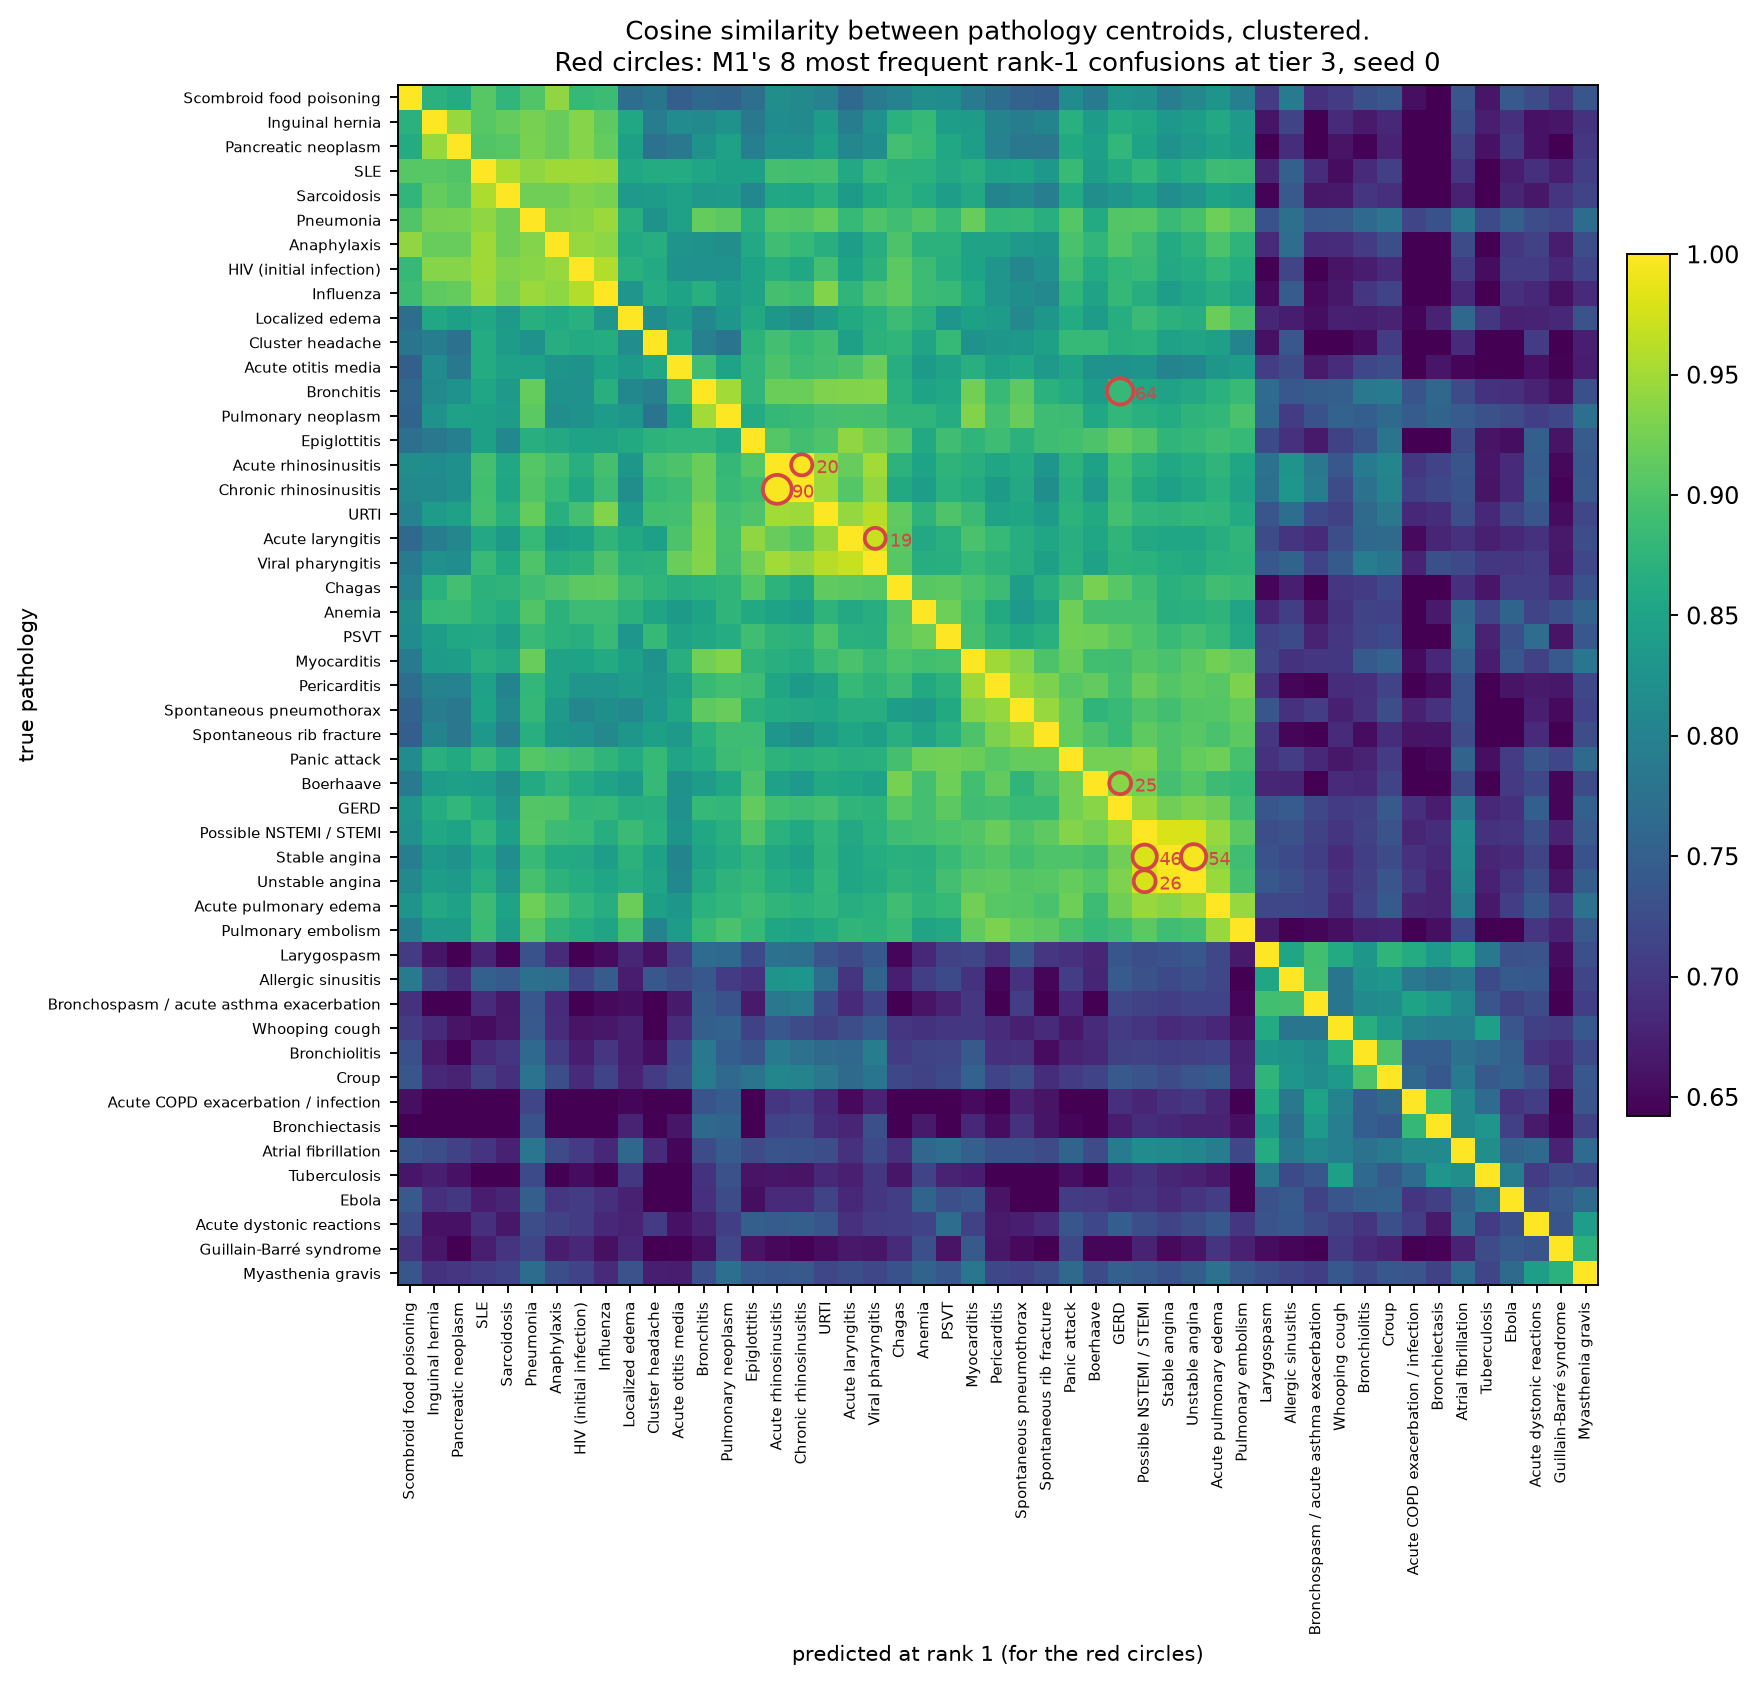
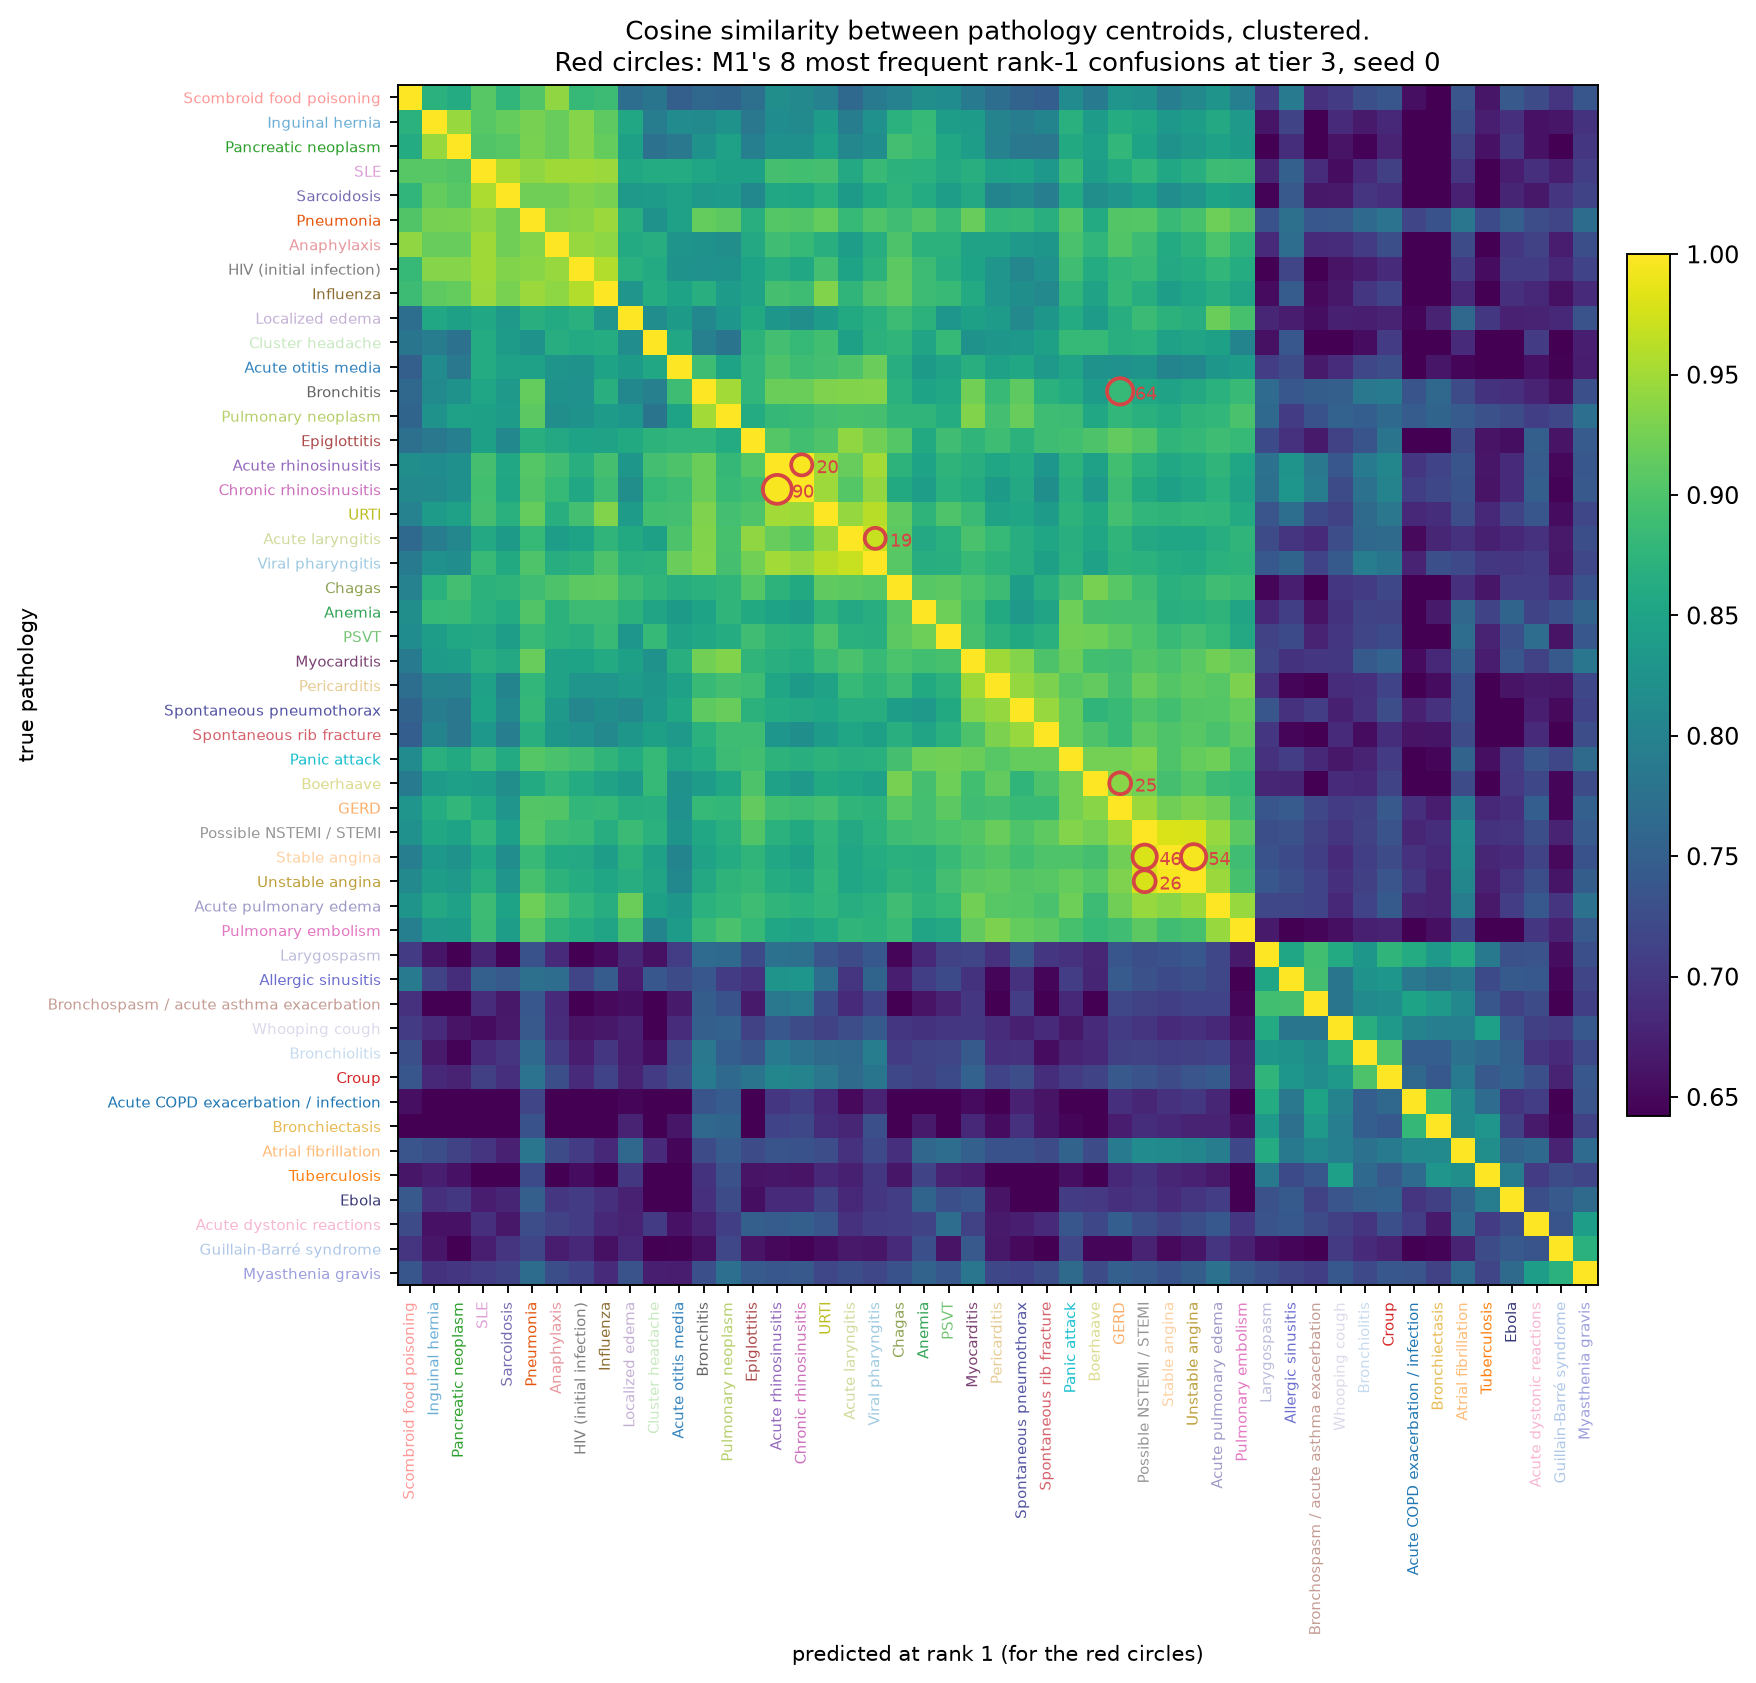
improve draft

Changed region(s): [[0.2153, 0.7724, 0.8918, 0.896], [0.123, 0.0618, 0.2153, 0.7724]]

diff --git a/src/pages/BlogPage/scripts/medive_embedding_map.py b/src/pages/BlogPage/scripts/medive_embedding_map.py
@@ -7,11 +7,12 @@ Reads the caches of the experiment repo (git-ignored there, so this script lives
     experiments/predictions/{m1_text,b1_tfidf}_s0_t3.npy   seed-0 probabilities at tier 3
 
 Run from anywhere with the experiment repo's environment:
-    uv run --with umap-learn --project ~/code/repos/medive-mvp python medive_embedding_map.py [--medive PATH] [--out DIR]
+    uv run --project ~/code/repos/medive-mvp python medive_embedding_map.py [--medive PATH] [--out DIR]
 
 Outputs, into src/assets/blog/medive/ by default:
-    fig_embedding_map.png     three panels: clean (UMAP), typos projected into the same map, and each patient's drift
-    fig_embedding_drift.png   how far vectors move and what it costs, M1 against B1
+    fig_embedding_map.png     two panels: clean notes and typo notes, one joint t-SNE map
+    fig_embedding_drift.png   each patient's displacement drawn on the map, and its distribution
+    fig_embedding_cost.png    M1 and B1 accuracy against the number of corrupted words
     embedding_stats.json      every number quoted in the post, so none is typed by hand
 """
 
@@ -19,6 +20,7 @@ from __future__ import annotations
 
 import argparse
 import json
+import sys
 from collections import Counter
 from pathlib import Path
 
@@ -54,6 +56,8 @@ def main() -> None:
     a = p.parse_args()
     root, out = Path(a.medive), Path(a.out).resolve()
     out.mkdir(parents=True, exist_ok=True)
+    sys.path.insert(0, str(root))  # experiments/ is a package at the repo root, not under src/
+    from experiments.viz import pathology_colours  # one fixed colour per pathology, shared with the essay figures
 
     # ---- load -------------------------------------------------------------------------------------------------------
     x0 = np.load(root / "data/processed/embeddings/sapbert/test/tier0.npy")
@@ -149,82 +153,69 @@ def main() -> None:
     # ---- the map ---------------------------------------------------------------------------------------------------
     rng = np.random.default_rng(SEED)
     idx = np.sort(rng.choice(n, size=N_MAP, replace=False))
-    # UMAP is fitted on the clean notes only, and the typo notes are dropped into that fixed map, so a patient's
-    # movement is measured against a map that did not see the typos. Falls back to a joint t-SNE if umap is absent
-    # (run with `uv run --with umap-learn ...` to have it).
-    pca = PCA(n_components=50, random_state=SEED).fit(x0[idx])
-    try:
-        import umap
-
-        reducer = umap.UMAP(n_neighbors=30, min_dist=0.1, metric="cosine", random_state=SEED)
-        z0 = reducer.fit_transform(pca.transform(x0[idx]))
-        z3 = reducer.transform(pca.transform(x3[idx]))
-        method = "UMAP fitted on the clean notes, typo notes projected into it"
-    except ImportError:
-        both = np.vstack([x0[idx], x3[idx]])
-        z = TSNE(n_components=2, perplexity=40, init="pca", random_state=SEED, max_iter=1000).fit_transform(pca.transform(both))
-        z0, z3 = z[:N_MAP], z[N_MAP:]
-        method = "t-SNE of the clean and typo notes together"
+    # Joint t-SNE of the clean and typo notes: both versions of every patient are embedded together, so the two
+    # panels share one map and a patient's displacement can be drawn. (UMAP with fit-on-clean / transform-typos was
+    # tried first; it scattered the map into tiny islands and read worse. t-SNE keeps the clusters legible.)
+    both = np.vstack([x0[idx], x3[idx]])
+    z50 = PCA(n_components=50, random_state=SEED).fit_transform(both)
+    z = TSNE(n_components=2, perplexity=40, init="pca", random_state=SEED, max_iter=1000).fit_transform(z50)
+    z0, z3 = z[:N_MAP], z[N_MAP:]
+    method = "t-SNE of the clean and typo notes together"
     stats["map_method"] = method
     (out / "embedding_stats.json").write_text(json.dumps(stats, indent=2))
 
     top = [c for c, _ in Counter(y[idx].tolist()).most_common(TOP_CLASSES)]
-    cmap = plt.get_cmap("tab10")
-    colour_of = {c: cmap(i) for i, c in enumerate(top)}
+    study = pathology_colours(labels)
+    colour_of = {c: study[labels[c]] for c in top}
     yy = y[idx]
     ok = m1_ok[idx]
 
-    fig, axes = plt.subplots(1, 3, figsize=(16, 5.6), dpi=170)
-    fig.patch.set_facecolor("white")
-
-    def scatter(ax, zz, title):
-        rest = ~np.isin(yy, top)
-        ax.scatter(zz[rest, 0], zz[rest, 1], s=4, c=GREY, alpha=0.35, linewidths=0, label="_")
-        for c in top:
-            m = yy == c
-            ax.scatter(zz[m, 0], zz[m, 1], s=6, color=colour_of[c], alpha=0.8, linewidths=0, label=labels[c])
-        ax.set_title(title, fontsize=13)
+    def frame(ax):
         ax.set_xticks([])
         ax.set_yticks([])
         for s in ax.spines.values():
             s.set_color("#cccccc")
 
-    scatter(axes[0], z0, "Tier 0, clean text")
-    scatter(axes[1], z3, "Tier 3, typos (same patients)")
+    def scatter(ax, zz, title):
+        rest = ~np.isin(yy, top)
+        ax.scatter(zz[rest, 0], zz[rest, 1], s=5, c=GREY, alpha=0.35, linewidths=0, label="_")
+        for c in top:
+            m = yy == c
+            ax.scatter(zz[m, 0], zz[m, 1], s=8, color=colour_of[c], alpha=0.85, linewidths=0, label=labels[c])
+        ax.set_title(title, fontsize=13)
+        frame(ax)
 
-    ax = axes[2]
+    # ---- figure 1: the map, clean and typos side by side --------------------------------------------------------
+    fig, axes = plt.subplots(1, 2, figsize=(14, 6.8), dpi=170)
+    fig.patch.set_facecolor("white")
+    scatter(axes[0], z0, "Tier 0, clean text")
+    scatter(axes[1], z3, "Tier 3, typos (same patients, same map)")
+    handles, names = axes[0].get_legend_handles_labels()
+    fig.legend(handles, names, loc="lower center", ncol=5, fontsize=9.5, frameon=False, markerscale=2.5, bbox_to_anchor=(0.5, -0.03))
+    fig.suptitle(
+        f"Frozen SapBERT vectors of {N_MAP:,} test patients. {method}\n({TOP_CLASSES} most frequent pathologies coloured, the other 39 in grey)",
+        fontsize=11.5,
+    )
+    fig.tight_layout(rect=(0, 0.07, 1, 0.94))
+    fig.savefig(out / "fig_embedding_map.png", bbox_inches="tight", facecolor="white")
+    plt.close(fig)
+
+    # ---- figure 2: the displacement, drawn and measured ----------------------------------------------------------
+    fig, axes = plt.subplots(1, 2, figsize=(14, 6), dpi=170, gridspec_kw={"width_ratios": [1.15, 1]})
+    fig.patch.set_facecolor("white")
+    ax = axes[0]
     ax.scatter(z0[:, 0], z0[:, 1], s=3, c=GREY, alpha=0.25, linewidths=0)
     li = rng.choice(N_MAP, size=N_DRIFT_LINES, replace=False)
     for i in li:
         c = RED if not ok[i] else BLUE
-        ax.plot([z0[i, 0], z3[i, 0]], [z0[i, 1], z3[i, 1]], color=c, lw=0.7, alpha=0.55 if ok[i] else 0.9)
+        ax.plot([z0[i, 0], z3[i, 0]], [z0[i, 1], z3[i, 1]], color=c, lw=0.8, alpha=0.55 if ok[i] else 0.95)
     ax.plot([], [], color=BLUE, lw=1.5, label="M1 still right at rank 1")
     ax.plot([], [], color=RED, lw=1.5, label="M1 wrong after typos")
     ax.legend(loc="lower left", fontsize=9, frameon=True)
-    ax.set_title(f"Where {N_DRIFT_LINES} patients move, clean → typos", fontsize=13)
-    ax.set_xticks([])
-    ax.set_yticks([])
-    for s in ax.spines.values():
-        s.set_color("#cccccc")
+    ax.set_title(f"Where {N_DRIFT_LINES} patients move, clean → typos", fontsize=12)
+    frame(ax)
 
-    handles, names = axes[0].get_legend_handles_labels()
-    fig.legend(
-        handles, names, loc="lower center", ncol=5, fontsize=9, frameon=False, markerscale=2.5,
-        bbox_to_anchor=(0.5, -0.02),
-    )
-    fig.suptitle(
-        f"Frozen SapBERT vectors of {N_MAP:,} test patients. {method} ({TOP_CLASSES} most frequent pathologies coloured)",
-        fontsize=12,
-    )
-    fig.tight_layout(rect=(0, 0.08, 1, 0.95))
-    fig.savefig(out / "fig_embedding_map.png", bbox_inches="tight", facecolor="white")
-    plt.close(fig)
-
-    # ---- drift and cost --------------------------------------------------------------------------------------------
-    fig, axes = plt.subplots(1, 2, figsize=(13, 5), dpi=170)
-    fig.patch.set_facecolor("white")
-
-    ax = axes[0]
+    ax = axes[1]
     hi = np.percentile(drift, 99.5)
     b = np.linspace(0, hi, 45)
     ax.hist(drift[m1_ok], bins=b, color=BLUE, alpha=0.75, label=f"M1 right at rank 1 (n = {m1_ok.sum():,})")
@@ -233,11 +224,16 @@ def main() -> None:
     ax.axvline(drift[~m1_ok].mean(), color=RED, ls="--", lw=1.2)
     ax.set_xlabel("Cosine distance between a patient's clean vector and its typo vector")
     ax.set_ylabel("Patients")
-    ax.set_title("How far each vector moves (dashed: group means)", fontsize=12)
+    ax.set_title("How far each vector moves, all 10,000 patients (dashed: group means)", fontsize=12)
     ax.legend(fontsize=9)
     ax.grid(axis="y", alpha=0.3)
+    fig.tight_layout()
+    fig.savefig(out / "fig_embedding_drift.png", bbox_inches="tight", facecolor="white")
+    plt.close(fig)
 
-    ax = axes[1]
+    # ---- figure 3: what the drift costs ---------------------------------------------------------------------------
+    fig, ax = plt.subplots(figsize=(11, 4), dpi=170)
+    fig.patch.set_facecolor("white")
     xs = np.arange(len(acc_rows))
     ax.plot(xs, [r["m1_acc1"] for r in acc_rows], marker="o", color=M1_COLOUR, lw=2.2, label="M1 SapBERT text-only")
     ax.plot(xs, [r["b1_acc1"] for r in acc_rows], marker="s", color=B1_COLOUR, lw=2.2, label="B1 TF-IDF + LR")
@@ -245,13 +241,12 @@ def main() -> None:
     ax.set_xticklabels([f"{r['words']}\n(n = {r['n']:,})" for r in acc_rows], fontsize=8.5)
     ax.set_xlabel("Corrupted words in the note")
     ax.set_ylabel("Acc@1 at tier 3 (%)")
-    ax.set_ylim(0, 102)
-    ax.set_title("What the drift costs, seed 0", fontsize=12)
+    ax.set_ylim(80, 101)
+    ax.set_title("Acc@1 under typos against how many words were corrupted, seed 0", fontsize=12)
     ax.legend(fontsize=9, loc="lower left")
     ax.grid(alpha=0.3)
-
     fig.tight_layout()
-    fig.savefig(out / "fig_embedding_drift.png", bbox_inches="tight", facecolor="white")
+    fig.savefig(out / "fig_embedding_cost.png", bbox_inches="tight", facecolor="white")
     plt.close(fig)
 
     print(json.dumps({k: v for k, v in stats.items() if k != "acc_by_corrupted_words"}, indent=2))

diff --git a/src/pages/BlogPage/scripts/medive_sapbert_space.py b/src/pages/BlogPage/scripts/medive_sapbert_space.py
@@ -2,6 +2,7 @@
 Figures for MEDIVE devlog #1: what frozen SapBERT's space looks like, beyond the patient map.
 
     fig_disease_maps.png     the 49 pathologies as note centroids (left) and as embedded names (right), PCA
+    fig_disease_names.png    the names panel on its own, for the reference sheet
     fig_disease_heatmap.png  49 x 49 cosine similarity of the note centroids, clustered, with M1's rank-1 confusions marked
     fig_phrase_map.png       canonical symptom phrases and their lay paraphrases (tier 2), UMAP, lines joining each pair
     fig_word_typos.png       how far a single word's vector moves per character edit
@@ -17,6 +18,7 @@ from __future__ import annotations
 
 import argparse
 import json
+import sys
 from collections import Counter
 from pathlib import Path
 
@@ -75,6 +77,9 @@ def main() -> None:
     a = p.parse_args()
     root, out = Path(a.medive), Path(a.out).resolve()
     out.mkdir(parents=True, exist_ok=True)
+    sys.path.insert(0, str(root))  # experiments/ is a package at the repo root, not under src/
+    from experiments.viz import pathology_colours  # one fixed colour per pathology, shared with the essay figures
+
     rng = np.random.default_rng(SEED)
     stats: dict = {"seed": SEED, "model": MODEL}
 
@@ -101,23 +106,32 @@ def main() -> None:
     counts = np.bincount(y, minlength=n_classes)
     names = embed(labels)
 
-    fig, axes = plt.subplots(1, 2, figsize=(17, 8.2), dpi=170)
-    fig.patch.set_facecolor("white")
-    for ax, vecs, title in [
-        (axes[0], centroids, "From the notes: mean vector of each pathology's test patients"),
-        (axes[1], names, "From the names: SapBERT on the 49 pathology names alone"),
-    ]:
+    study = pathology_colours(labels)
+    cols = [study[name] for name in labels]
+
+    def draw_view(ax, vecs, title, sizes):
         z = PCA(n_components=2, random_state=SEED).fit_transform(unit(vecs))
-        size = 18 + 4 * np.sqrt(counts) if vecs is centroids else 40
-        ax.scatter(z[:, 0], z[:, 1], s=size, color=BLUE, alpha=0.75, linewidths=0)
+        ax.scatter(z[:, 0], z[:, 1], s=sizes, c=cols, alpha=0.9, linewidths=0.4, edgecolors="white")
         for i, name in enumerate(labels):
-            ax.annotate(name, (z[i, 0], z[i, 1]), fontsize=6.8, color=INK, xytext=(3, 2), textcoords="offset points")
+            ax.annotate(name, (z[i, 0], z[i, 1]), fontsize=7, color=INK, xytext=(4, 2), textcoords="offset points")
         ax.set_title(title, fontsize=12)
         clean_axes(ax)
+
+    fig, axes = plt.subplots(1, 2, figsize=(17, 8.2), dpi=170)
+    fig.patch.set_facecolor("white")
+    draw_view(axes[0], centroids, "From the notes: mean vector of each pathology's test patients", 22 + 4 * np.sqrt(counts))
+    draw_view(axes[1], names, "From the names: SapBERT on the 49 pathology names alone", 46)
     axes[0].text(0.01, 0.01, "dot size: number of test patients", transform=axes[0].transAxes, fontsize=8, color="#666666")
-    fig.suptitle("Two views of the same 49 pathologies in SapBERT's space (PCA to two dimensions)", fontsize=13)
+    fig.suptitle("Two views of the same 49 pathologies in SapBERT's space (PCA to two dimensions, one fixed colour per pathology)", fontsize=13)
     fig.tight_layout(rect=(0, 0, 1, 0.96))
     fig.savefig(out / "fig_disease_maps.png", bbox_inches="tight", facecolor="white")
+    plt.close(fig)
+
+    fig, ax = plt.subplots(figsize=(11, 8), dpi=170)
+    fig.patch.set_facecolor("white")
+    draw_view(ax, names, "The 49 DDXPlus pathology names as SapBERT embeds them (PCA to two dimensions)", 52)
+    fig.tight_layout()
+    fig.savefig(out / "fig_disease_names.png", bbox_inches="tight", facecolor="white")
     plt.close(fig)
 
     # Do the two views agree? For each pathology, overlap of its 5 nearest neighbours in the two spaces.
@@ -160,6 +174,10 @@ def main() -> None:
     ax.set_yticks(range(n_classes))
     ax.set_xticklabels([labels[c] for c in order], rotation=90, fontsize=6.5)
     ax.set_yticklabels([labels[c] for c in order], fontsize=6.5)
+    for tick, c in zip(ax.get_xticklabels(), order):
+        tick.set_color(study[labels[c]])
+    for tick, c in zip(ax.get_yticklabels(), order):
+        tick.set_color(study[labels[c]])
     ax.set_xlabel("predicted at rank 1 (for the red circles)", fontsize=9)
     ax.set_ylabel("true pathology", fontsize=9)
     ax.set_title(
